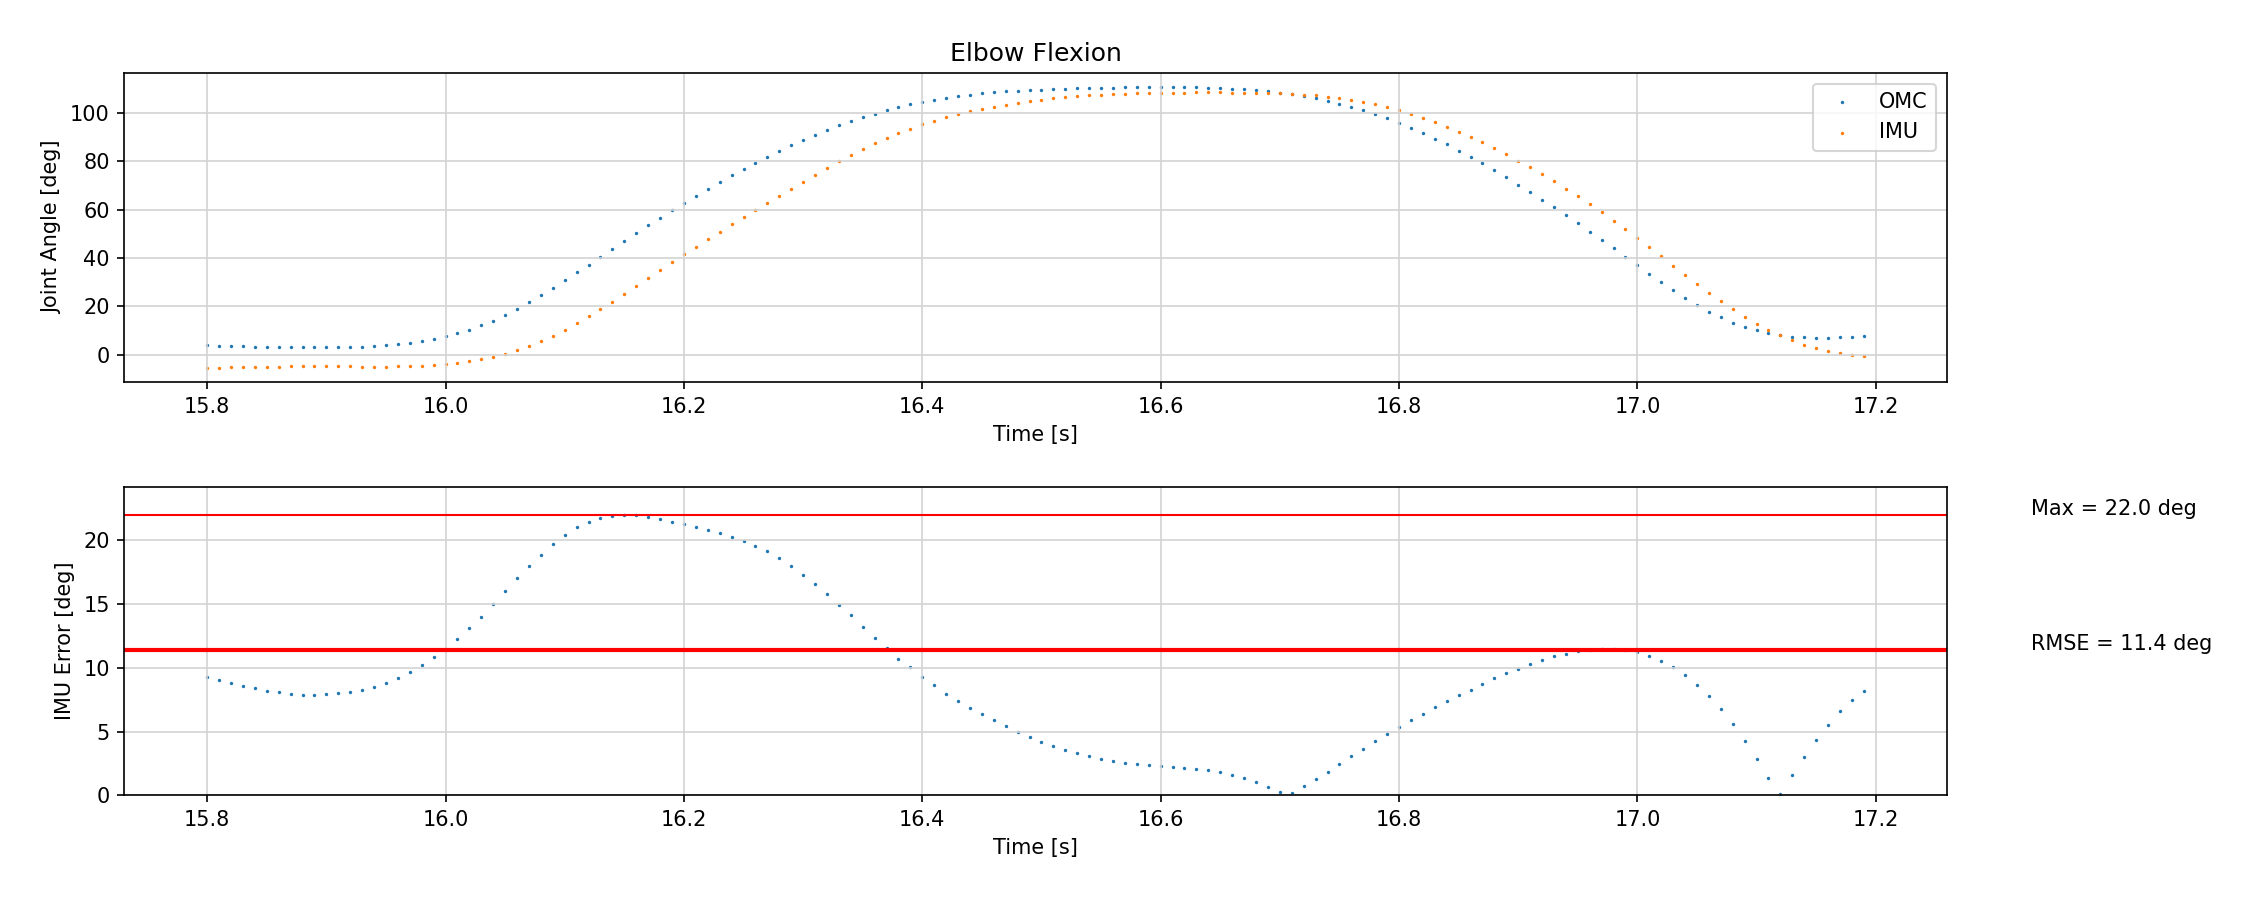
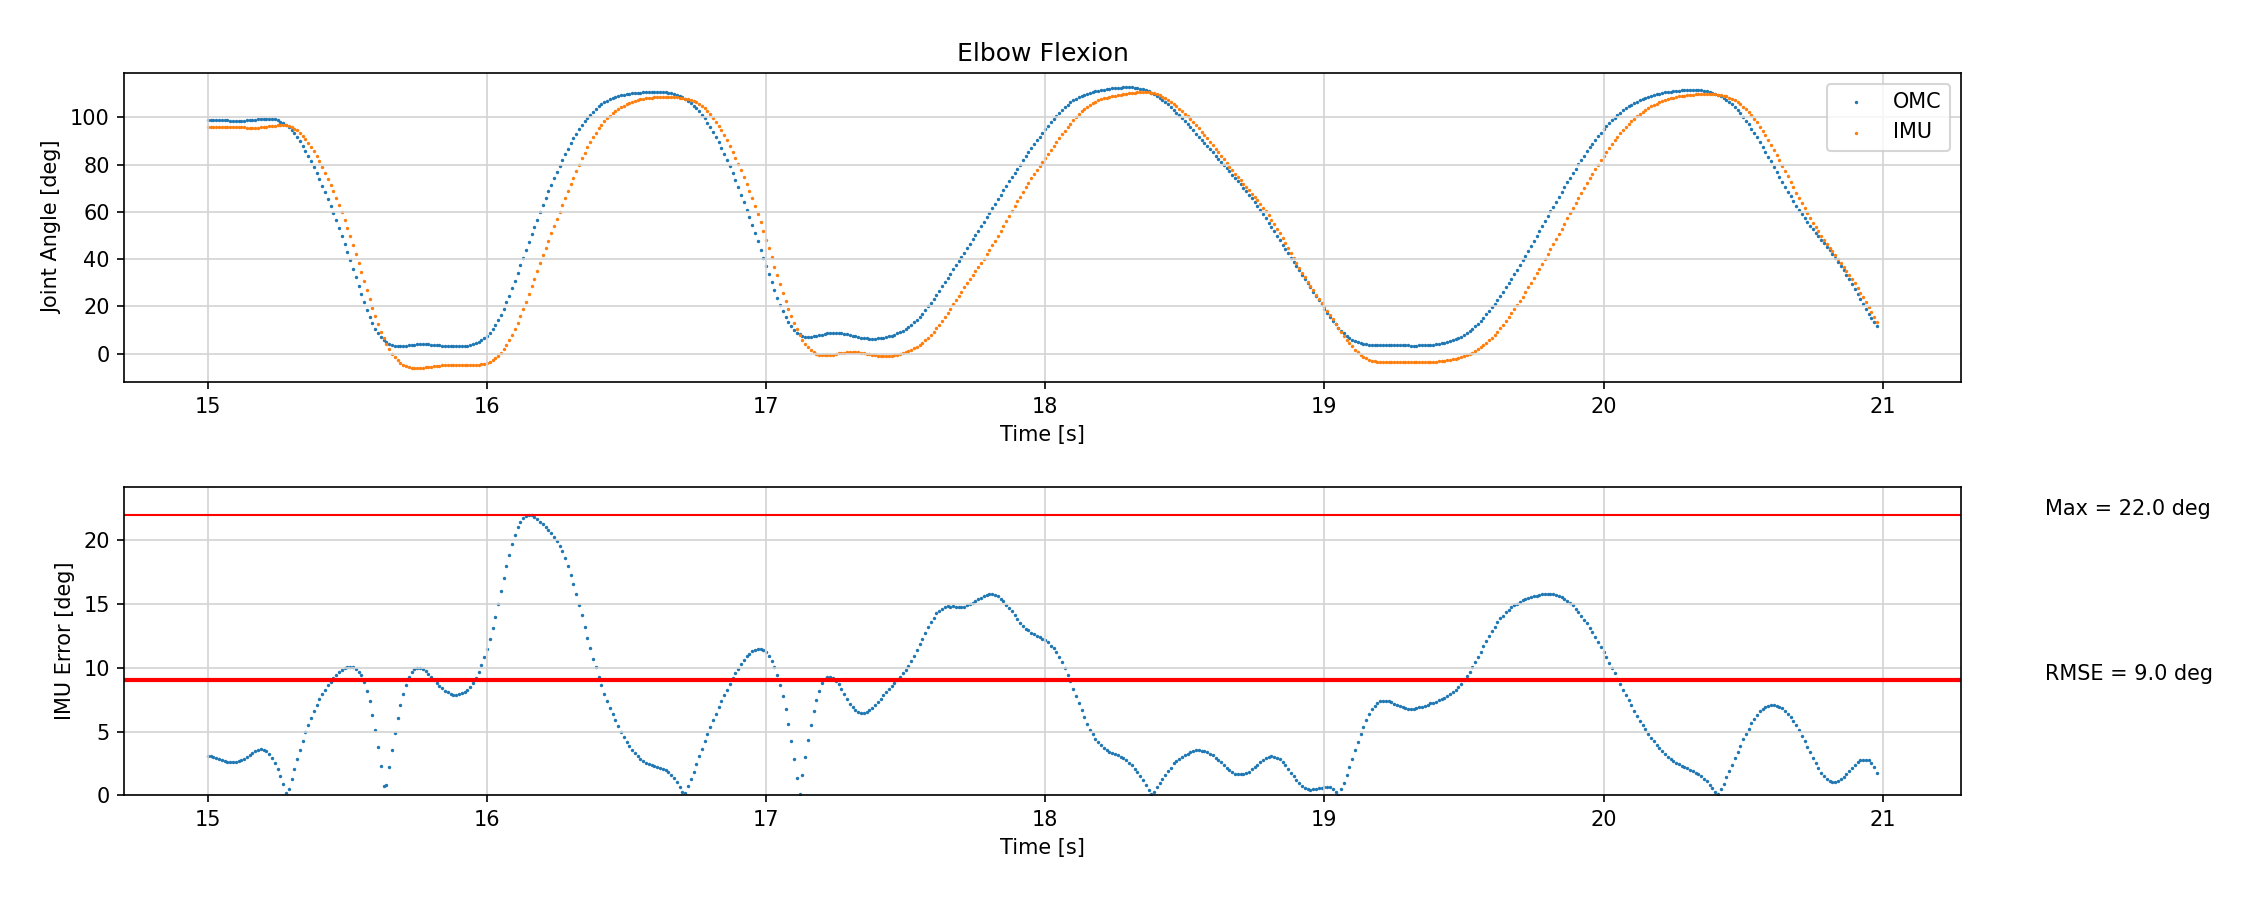
Added function to plot original angle graphs but with new error metric too.

diff --git a/Testing_DTW/helpers.py b/Testing_DTW/helpers.py
@@ -308,3 +308,213 @@ def plot_compare_JAs(OMC_table, IMU_table, time, start_time, end_time,
 
     return RMSE_angle1, RMSE_angle2, RMSE_angle3, R_1, R_2, R_3
 
+
+# Read data from .mot file then plot time-series JAs
+def run_IK_compare_new_errors(subject_code, trial_name, calibration_name, start_time, end_time, trim_bool, IMU_type, error_arr):
+
+    print(f'\nRunning a comparison between IMU and OMC for {subject_code}, {trial_name}, calibration type: {calibration_name}')
+
+    """ SETTINGS """
+    sample_rate = 100
+    labelA = "OMC"  # This is the label linked to all the variables with "OMC" in the title
+    labelB = "IMU"  # This is the label linked to all the variables with "IMU" in the title
+
+    # Define some file names
+    compare_name = subject_code + '_' + calibration_name + '_' + trial_name
+    parent_dir = r'C:\Users\r03mm22\Documents\Protocol_Testing\IMU_Repo\Testing_DTW'
+    data_dir = os.path.join(parent_dir, 'RawData')
+    results_dir = os.path.join(parent_dir, "Results")
+    IMU_mot_file = os.path.join(data_dir, 'IMU_IK_results.mot')
+    OMC_mot_file = os.path.join(data_dir, 'OMC_IK_results.mot')
+
+    if os.path.exists(results_dir) == False:
+        os.mkdir(results_dir)
+    osim.Logger.removeFileSink()
+    osim.Logger.addFileSink(results_dir + r"\opensim.log")
+
+
+    """ MAIN """
+
+    # Read in coordinates from IK results .mot files
+    print('Reading coordinates from .mot files...')
+    OMC_table = osim.TimeSeriesTable(OMC_mot_file)
+    IMU_table = osim.TimeSeriesTable(IMU_mot_file)
+
+    # Set start and end time if trim_bool is false
+    if trim_bool == False:
+        start_time = 0
+        end_time = (IMU_table.getNumRows() - 1) / sample_rate
+
+
+    # Trim tables based on time of interest
+    OMC_table.trim(start_time, end_time)
+    IMU_table.trim(start_time, end_time)
+
+    # Account for discrepancies between trimming function/time values
+    if OMC_table.getNumRows() == IMU_table.getNumRows() + 1:
+        OMC_table.removeRowAtIndex((OMC_table.getNumRows() - 1))
+    elif OMC_table.getNumRows() == IMU_table.getNumRows() + 2:
+        OMC_table.removeRowAtIndex((OMC_table.getNumRows() - 1))
+        OMC_table.removeRowAtIndex((OMC_table.getNumRows() - 1))
+    elif OMC_table.getNumRows() != IMU_table.getNumRows():
+        print('Tables are different sizes.')
+
+
+    time = OMC_table.getIndependentColumn()  # Get the time data
+
+
+    """ PLOT """
+
+    # Plot IMU vs OMC joint angles based on OpenSim coordinates
+    print('Plotting results...')
+
+    RMSE_elbow_flexion, RMSE_elbow_pronation, RMSE_elbow_pronation_2, \
+        R_elbow_flexion, R_elbow_pronation, R_elbow_pronation_2 = \
+        plot_compare_JAs_new_error(OMC_table, IMU_table, time, start_time, end_time,
+                     results_dir, labelA, labelB, error_arr, joint_of_interest="Elbow")
+
+
+    # "Trial Name:": str(compare_name)
+
+    final_RMSE_values_df = pd.DataFrame.from_dict(
+        {"elbow_flexion": RMSE_elbow_flexion},
+        orient='index', columns=["RMSE"])
+
+    final_R_values_df = pd.DataFrame.from_dict(
+        {"elbow_flexion": R_elbow_flexion},
+        orient='index', columns=["R"])
+
+    all_data = pd.concat((final_RMSE_values_df, final_R_values_df), axis=1)
+
+    # Write final RMSE values to a csv
+    print('Writing results to .csv.')
+
+
+
+    all_data.to_csv(results_dir + "\\" + str(compare_name) + r"_Final_RMSEs.csv",
+                                mode='w', encoding='utf-8', na_rep='nan')
+
+
+# Define a function to plot IMU vs OMC, with extra plot of new errors derived from DTW analysis
+def plot_compare_JAs_new_error(OMC_table, IMU_table, time, start_time, end_time,
+                     figure_results_dir, labelA, labelB, error_arr, joint_of_interest):
+
+    if joint_of_interest == "Thorax":
+        ref1 = "TH_x"
+        ref2 = "TH_z"
+        ref3 = "TH_y"
+        label1 = "Forward Tilt"
+        label2 = "Lateral Tilt"
+        label3 = "(Change in) Trunk Rotation"
+
+    elif joint_of_interest == "Elbow":
+        ref1 = "EL_x"
+        ref2 = "PS_y"
+        ref3 = "PS_y"
+        label1 = "Elbow Flexion"
+        label2 = "Pro/Supination"
+        label3 = "Pro/Supination"
+
+    else:
+        print("Joint_of_interest isn't typed correctly")
+        quit()
+
+    # Extract coordinates from states table
+    OMC_angle1 = OMC_table.getDependentColumn(ref1).to_numpy()
+    OMC_angle2 = OMC_table.getDependentColumn(ref2).to_numpy()
+    OMC_angle3 = OMC_table.getDependentColumn(ref3).to_numpy()
+    IMU_angle1 = IMU_table.getDependentColumn(ref1).to_numpy()
+    IMU_angle2 = IMU_table.getDependentColumn(ref2).to_numpy()
+    IMU_angle3 = IMU_table.getDependentColumn(ref3).to_numpy()
+
+    # Update trunk rotation angle to be the change in direction based on initial direction
+    if joint_of_interest == "Thorax":
+        OMC_angle3 = OMC_angle3 - OMC_angle3[0]
+        IMU_angle3 = IMU_angle3 - IMU_angle3[0]
+
+    # Calculate Pearson correlation coefficient
+    R_1 = pearsonr(OMC_angle1, IMU_angle1)[0]
+    R_2 = pearsonr(OMC_angle2, IMU_angle2)[0]
+    R_3 = pearsonr(OMC_angle3, IMU_angle3)[0]
+
+    # Calculate error arrays
+    error_angle1 = abs(OMC_angle1 - IMU_angle1)
+    error_angle2 = error_arr
+    new_error_time = np.linspace(start_time, end_time, num=len(error_arr))
+    error_angle3 = abs(OMC_angle3 - IMU_angle3)
+
+    # Calculate RMSE
+    RMSE_angle1 = (sum(np.square(error_angle1)) / len(error_angle1)) ** 0.5
+    RMSE_angle2 = (sum(np.square(error_angle2)) / len(error_angle2)) ** 0.5
+    RMSE_angle3 = (sum(np.square(error_angle3)) / len(error_angle3)) ** 0.5
+    max_error_angle1 = np.amax(error_angle1)
+    max_error_angle2 = np.amax(error_angle2)
+    max_error_angle3 = np.amax(error_angle3)
+
+    # Create figure with three subplots
+    fig, axs = plt.subplots(3, 1, figsize=(15,6))
+
+    # Plot joint angles
+    axs[0].scatter(time, OMC_angle1, s=0.4)
+    axs[0].scatter(time, IMU_angle1, s=0.4)
+    axs[0].set_title(label1)
+    axs[0].set(xlabel="Time [s]", ylabel="Joint Angle [deg]")
+    axs[0].legend([labelA, labelB])
+    axs[0].grid(color="lightgrey")
+
+
+    # Plot error graphs
+    axs[1].scatter(time, error_angle1, s=0.4)
+    axs[2].scatter(new_error_time, error_angle2, s=0.4)
+
+    # Plot RMSE error lines and text
+    axs[1].axhline(y=RMSE_angle1, linewidth=2, c="red")
+    axs[1].text(time[-1]+0.1*(end_time-start_time), RMSE_angle1, "RMSE = " + str(round(RMSE_angle1,1)) + " deg")
+    axs[2].axhline(y=RMSE_angle2, linewidth=2, c="red")
+    axs[2].text(time[-1]+0.1*(end_time-start_time), RMSE_angle2, "RMSE = " + str(round(RMSE_angle2,1)) + " deg")
+
+    # Functions to define placement of max error annotation
+    def y_max_line_placement(max_error):
+        if max_error > 40:
+            line_placement = 40
+        else:
+            line_placement = max_error
+        return line_placement
+
+    def y_max_text_placement(max_error, RMSE):
+        if max_error > 40:
+            text_placement = 40
+        elif max_error < (RMSE*1.1):
+            text_placement = RMSE*1.1
+        else:
+            text_placement = max_error
+        return text_placement
+
+    # Plot max error lines
+    y_max_line_placement_1 = y_max_line_placement(max_error_angle1)
+    y_max_line_placement_2 = y_max_line_placement(max_error_angle2)
+    y_max_line_placement_3 = y_max_line_placement(max_error_angle3)
+    axs[1].axhline(y=y_max_line_placement_1, linewidth=1, c="red")
+    axs[2].axhline(y=y_max_line_placement_2, linewidth=1, c="red")
+
+
+    # Plot max error text
+    y_max_text_placement_1 = y_max_text_placement(max_error_angle1, RMSE_angle1)
+    y_max_text_placement_2 = y_max_text_placement(max_error_angle2, RMSE_angle2)
+    y_max_text_placement_3 = y_max_text_placement(max_error_angle3, RMSE_angle3)
+    axs[1].text(time[-1]+0.1*(end_time-start_time), y_max_text_placement_1, "Max = " + str(round(max_error_angle1,1)) + " deg")
+    axs[2].text(time[-1]+0.1*(end_time-start_time), y_max_text_placement_2, "Max = " + str(round(max_error_angle2,1)) + " deg")
+
+    # Set a shared y axis
+    axs[1].set(xlabel="Time [s]", ylabel="IMU Error [deg]", ylim=(0,np.min([40,1.1*np.max([max_error_angle1])])))
+    axs[1].grid(color="lightgrey")
+    axs[2].set(xlabel="Time [s]", ylabel="New Error from DTW [deg]", ylim=(0,np.min([40,1.1*np.max([max_error_angle1])])))
+    axs[2].grid(color="lightgrey")
+
+    fig.tight_layout(pad=2.0)
+
+    fig.savefig(figure_results_dir + "\\" + joint_of_interest + "_angles_with_new_error.png")
+
+    plt.close()
+
+    return RMSE_angle1, RMSE_angle2, RMSE_angle3, R_1, R_2, R_3

diff --git a/Testing_DTW/main.py b/Testing_DTW/main.py
@@ -4,6 +4,7 @@ from helpers import read_in_mot_as_numpy
 from helpers import compute_distance_matrix
 from helpers import compute_accumulated_cost_matrix
 from helpers import my_dist_func
+from helpers import run_IK_compare_new_errors
 
 import pandas as pd
 import numpy as np
@@ -48,6 +49,7 @@ OMC_angle_np, IMU_angle_np = read_in_mot_as_numpy(subject_code, trial_name, cali
 x = OMC_angle_np
 y = IMU_angle_np
 
+# Example arrays for analysis
 # x = np.array([7, 1, 2, 5, 9])
 # y = np.array([1, 8, 0, 4, 4, 2, 0])
 
@@ -57,7 +59,7 @@ print(y[:10])
 
 
 """ PLOT ORIGINAL DATA """
-fig, ax = plt.subplots(figsize=(6, 4))
+fig, ax = plt.subplots(figsize=(10, 6))
 
 # Remove the border and axes ticks
 fig.patch.set_visible(False)
@@ -73,7 +75,7 @@ ax.plot(x, '-ro', label='x', linewidth=1, markersize=1, markerfacecolor='lightco
 ax.plot(y, '-bo', label='y', linewidth=1, markersize=1, markerfacecolor='skyblue', markeredgecolor='skyblue')
 ax.set_title("Euclidean Distance", fontsize=10, fontweight="bold")
 
-plt.show()
+# plt.show()
 fig.savefig(results_dir + "\\" + "Original_data_dist_plot.png")
 
 
@@ -112,9 +114,14 @@ print("Distance value equivalent to that returned by the fastdtw() function: ", 
 RMSE_eq = np.mean(np.square(distance_matrix_list))**0.5
 print("RMSE equivalent using the distance matrix values path: ", RMSE_eq)
 
+# Use my functions for printing time-series JAs and calculating RMSEs and Pearson's R
+run_IK_compare_new_errors(subject_code, trial_name, calibration_name, start_time, end_time, trim_bool, IMU_type, distance_matrix_list)
+
+
 
 
 # """ PLOT THE COST MATRIX """
+    # note: too slow for big data (>5s)
 #
 # fig, ax = plt.subplots(figsize=(6, 4))
 # ax = sbn.heatmap(cost_matrix, annot=True, square=True, cmap="YlGnBu", ax=ax)
@@ -159,7 +166,8 @@ print("RMSE equivalent using the distance matrix values path: ", RMSE_eq)
 
 
 """ PLOT THE DATA AGAIN, BUT WITH THE NEW CONNECTING LINES SHOWING PAIRS """
-fig, ax = plt.subplots(figsize=(6, 4))
+
+fig, ax = plt.subplots(figsize=(10, 6))
 
 # Remove the border and axes ticks
 fig.patch.set_visible(False)
@@ -173,5 +181,5 @@ ax.plot(y, '-bo', label='y', linewidth=1, markersize=1, markerfacecolor='skyblue
 
 ax.set_title("DTW Distance", fontsize=10, fontweight="bold")
 
-plt.show()
+# plt.show()
 fig.savefig(results_dir + "\\" + "Data_dist_plot_new_connections.png")
